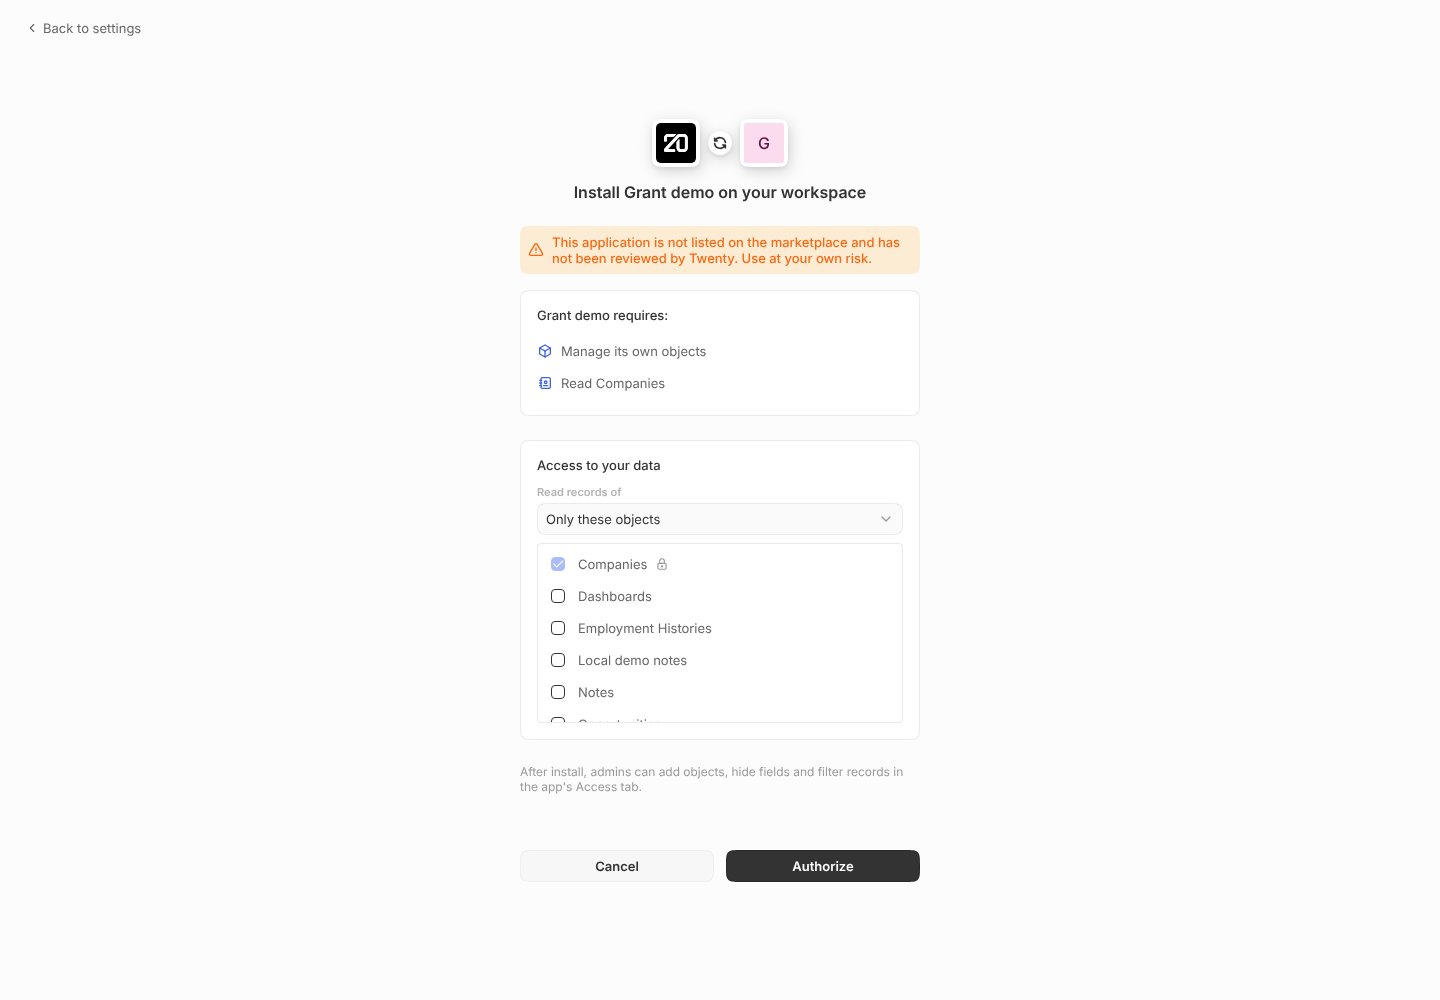
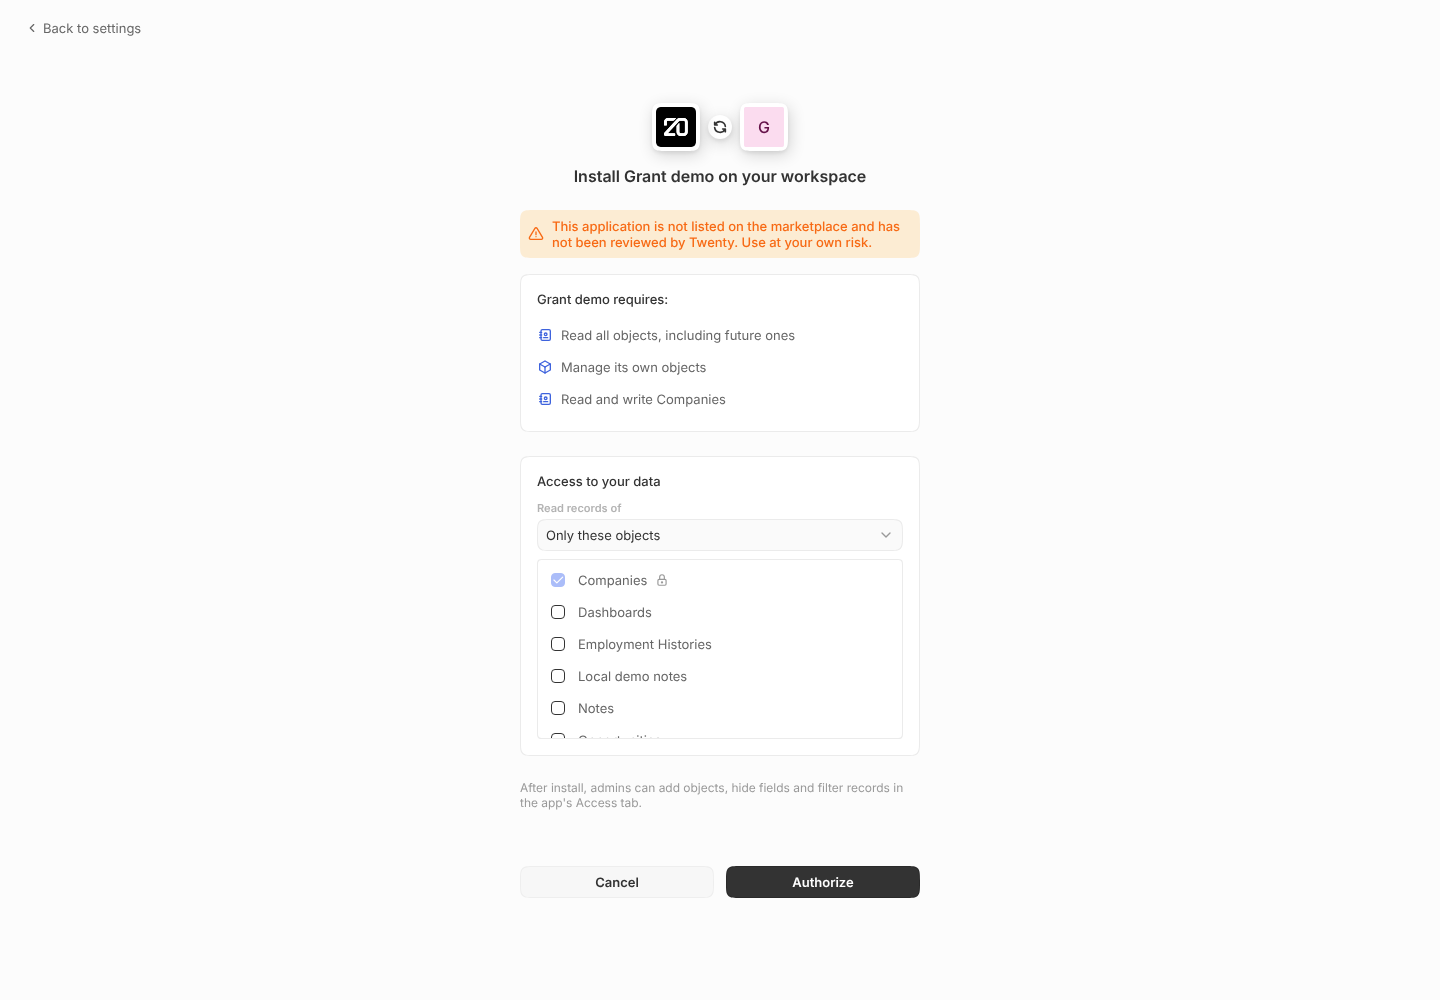
Show the all-objects request in the install dialog requires card

diff --git a/packages/twenty-front/src/modules/marketplace/components/SettingsApplicationRequiredAccessCard.tsx b/packages/twenty-front/src/modules/marketplace/components/SettingsApplicationRequiredAccessCard.tsx
@@ -22,8 +22,6 @@ type SettingsApplicationRequiredAccessCardProps = {
   appObjects?: { universalIdentifier: string }[];
   requestedCapabilities?: string[];
   billsCredits?: boolean;
-  // Before the install dialog, the "all objects" request is listed instead of being scoped
-  showAllObjectsRequest?: boolean;
 };
 
 const StyledPermissionsCard = styled.div`
@@ -80,7 +78,6 @@ export const SettingsApplicationRequiredAccessCard = ({
   appObjects,
   requestedCapabilities = [],
   billsCredits = false,
-  showAllObjectsRequest = false,
 }: SettingsApplicationRequiredAccessCardProps) => {
   const { objectMetadataItems } = useObjectMetadataItems();
 
@@ -106,7 +103,7 @@ export const SettingsApplicationRequiredAccessCard = ({
   );
 
   const permissionItems: PermissionSummaryItem[] = useMemo(() => {
-    // "All objects" switches are scoped by the admin at install, the rest is required and locked
+    // The "all objects" request gets its own line; per-object lines are what stays locked at install
     const rolePermissionItems = defaultRole
       ? buildPermissionSummaryFromRoleManifest(
           {
@@ -127,18 +124,16 @@ export const SettingsApplicationRequiredAccessCard = ({
       )
       .filter(isDefined);
 
-    const allObjectsRequestLabel = showAllObjectsRequest
-      ? getRecordAccessLabel({
-          access: {
-            canRead: defaultRole?.canReadAllObjectRecords ?? false,
-            canWrite: defaultRole?.canUpdateAllObjectRecords ?? false,
-            canDelete:
-              (defaultRole?.canSoftDeleteAllObjectRecords ?? false) ||
-              (defaultRole?.canDestroyAllObjectRecords ?? false),
-          },
-          target: t`all objects (you pick which at install)`,
-        })
-      : undefined;
+    const allObjectsRequestLabel = getRecordAccessLabel({
+      access: {
+        canRead: defaultRole?.canReadAllObjectRecords ?? false,
+        canWrite: defaultRole?.canUpdateAllObjectRecords ?? false,
+        canDelete:
+          (defaultRole?.canSoftDeleteAllObjectRecords ?? false) ||
+          (defaultRole?.canDestroyAllObjectRecords ?? false),
+      },
+      target: t`all objects, including future ones`,
+    });
 
     return [
       ...(isDefined(allObjectsRequestLabel)
@@ -161,7 +156,6 @@ export const SettingsApplicationRequiredAccessCard = ({
       ...buildApplicationBillingSummary(billsCredits),
     ];
   }, [
-    showAllObjectsRequest,
     appObjects,
     requestedCapabilities,
     defaultRole,

diff --git a/packages/twenty-front/src/pages/settings/applications/SettingsAvailableApplicationDetails.tsx b/packages/twenty-front/src/pages/settings/applications/SettingsAvailableApplicationDetails.tsx
@@ -218,7 +218,6 @@ export const SettingsAvailableApplicationDetails = () => {
             appObjects={detail.objects ?? undefined}
             requestedCapabilities={detail.requestedCapabilities}
             billsCredits={detail.billsCredits}
-            showAllObjectsRequest
           />
         }
       />

diff --git a/POC_GRANTED_ROLES.md b/POC_GRANTED_ROLES.md
@@ -52,9 +52,9 @@ Verified end to end on a fresh dev workspace (`tim@apple.dev`), mostly through t
   - `triggerInstallApplication(input: { grantObjectScopes })`.
   - `Role.canBeAssignedToApplications` and `Role.grantedToApplicationId`.
 - **Front**
-  - **Pre-install app page**: shows the same "requires" summary as the dialog, including the "all objects" request (`09`).
+  - **Pre-install app page**: shows the same "requires" summary as the dialog (`09`).
   - **Install dialog** (`01`):
-    - The required items are listed as before (own objects, named objects, flags, capabilities, billing). A single object is named ("Read Companies"); several show their names on hover.
+    - The "requires" card lists everything the app asks for: each "all objects" request with its full reach ("Read all objects, including future ones"), own objects, named objects, flags, capabilities and billing. A single object is named ("Read Companies"); several show their names on hover.
     - A new "Access to your data" section offers "All objects (including future ones)" or "Only these objects" for each requested switch, with an object checklist. Objects the app requires are checked, disabled and locked.
     - A hint points to the Access tab.
   - **Access tab** on the installed app page:
@@ -136,3 +136,4 @@ Tests:
 9. **Agents without a role.** An agent that declares no role gets no target, and so no grant. Should every agent of a confined app run with the grant by default?
 10. **Narrowing is silent.** When a new version asks for less, the removed access is taken from the grant during the upgrade, and nothing tells the admin (in the example, v3 removes "update Companies" with no notice). Should the Access tab or the app's General tab show what the last upgrade removed?
 11. **Which apps are confined, and what OAuth clients run with.** Today only `twenty-standard` and the workspace custom app are exempt, which breaks OAuth-only clients such as the Twenty CLI (see the known regression above). An OAuth client acting for a user could run with the user's role, with a grant made at authorization time, or with the intersection of the two. This needs a decision before the regression can be fixed.
+12. **Default install scope.** The dialog preselects "All objects (including future ones)" for each requested switch. It is the only grant that keeps growing without a new approval, so should the default be "Only these objects", with required objects locked? The cost is that an app that needs everything (sync, search) runs with less until the admin widens it. If the admin narrows at install, should the Access tab show what the app asked for but did not get, like the pending card does on upgrade?
